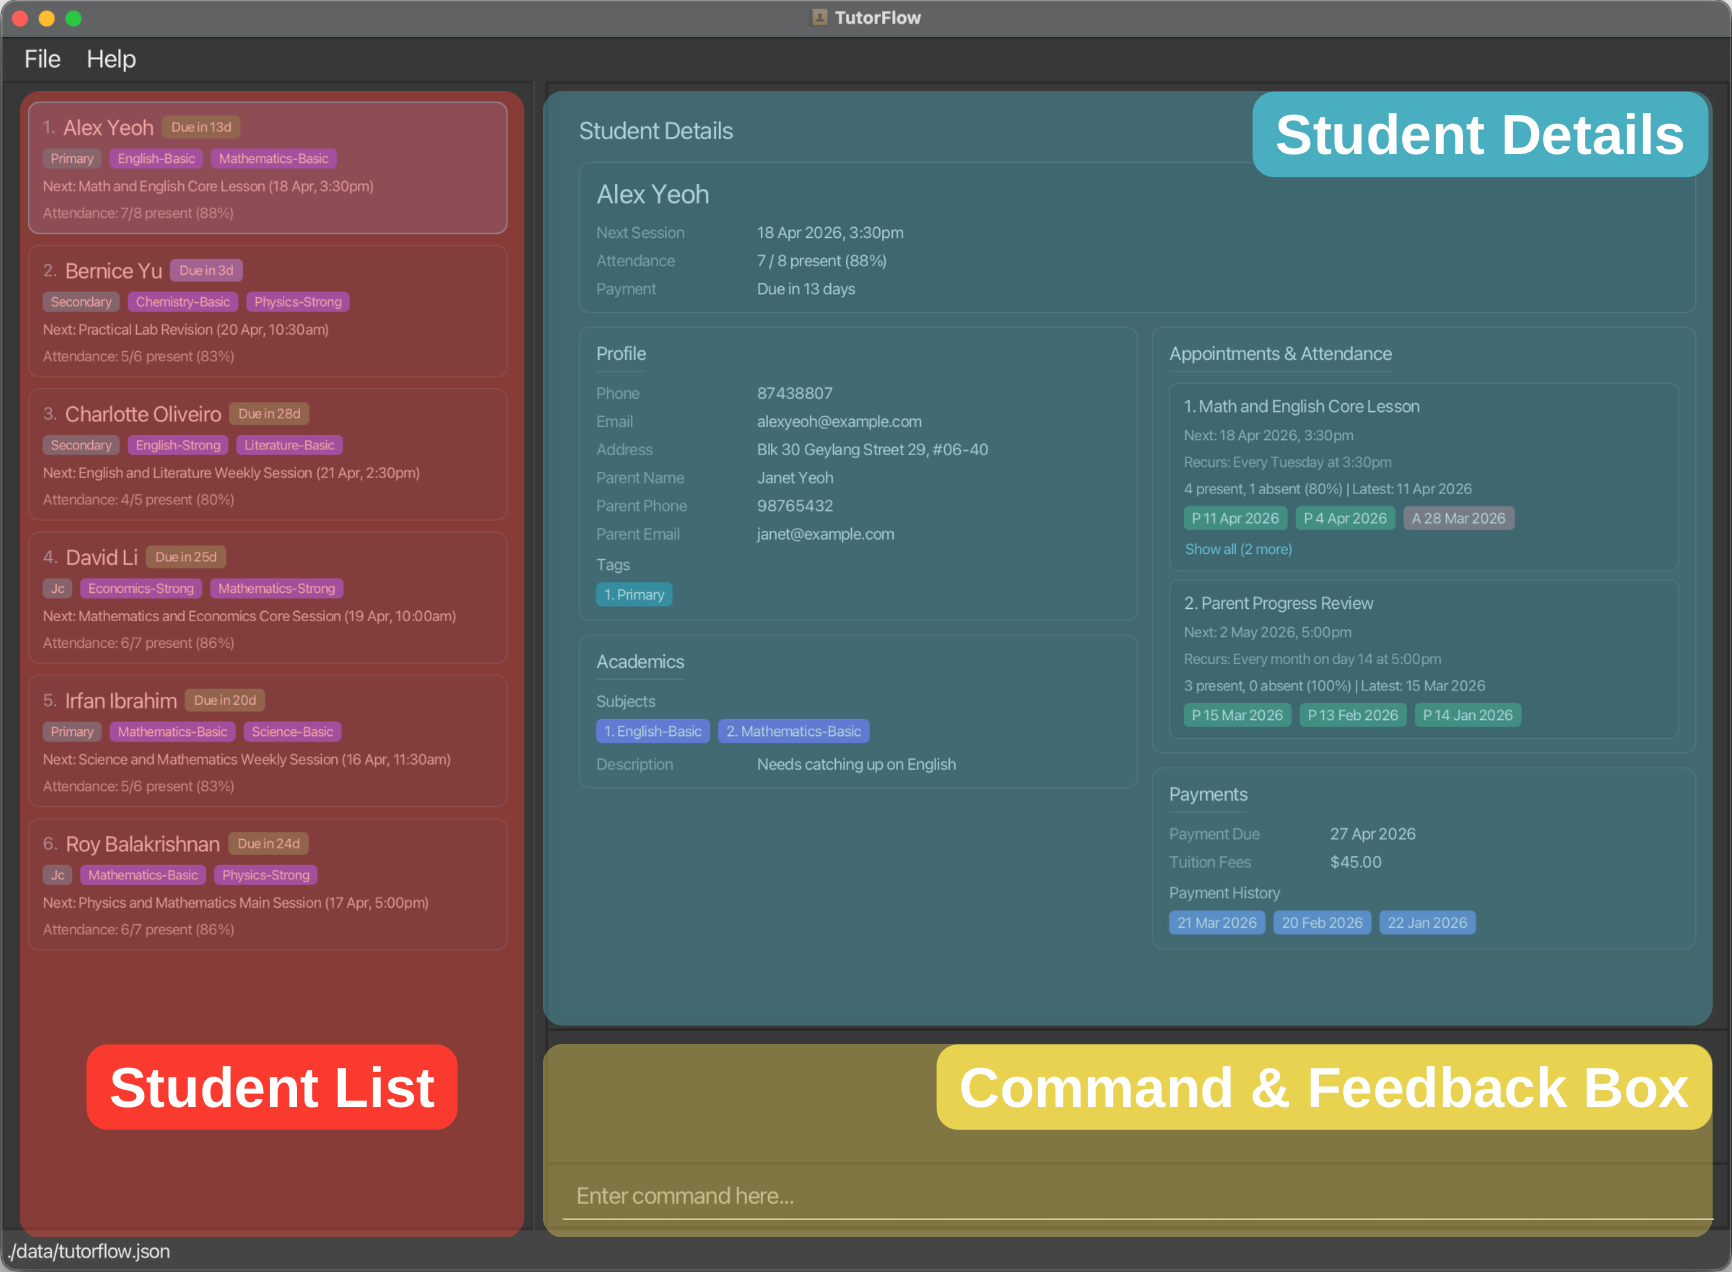
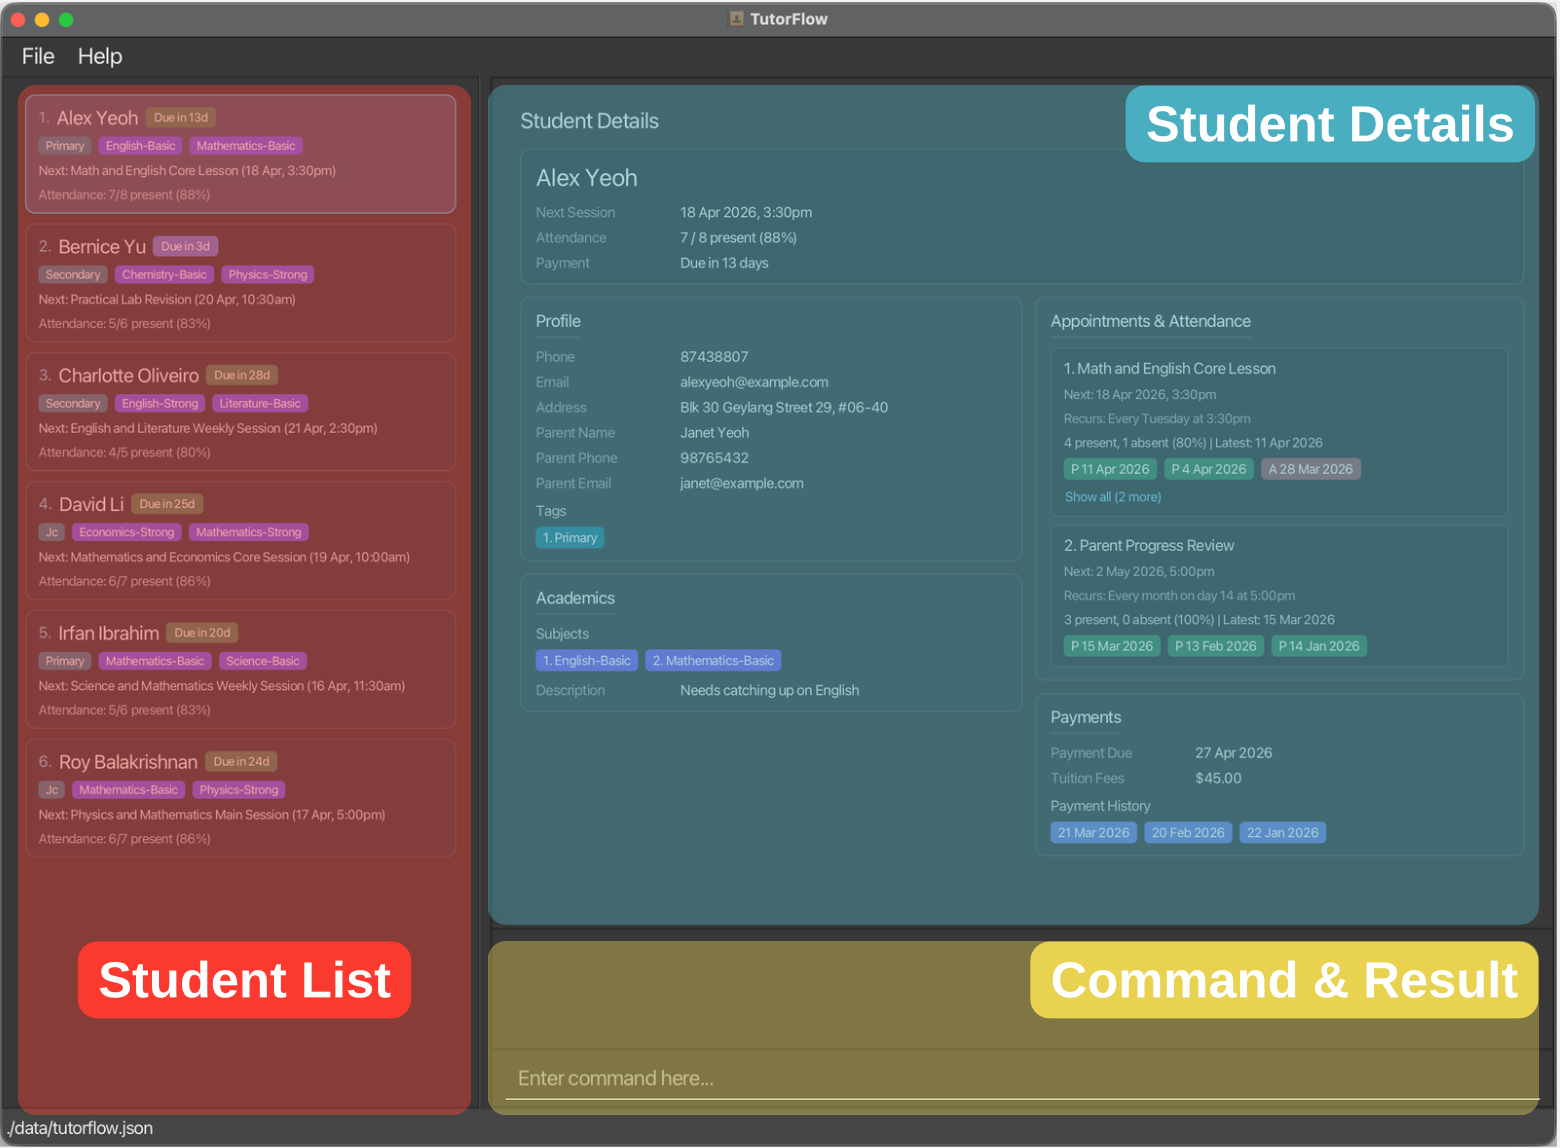
Update Ui annotation and explanation in UG for standardisation

diff --git a/docs/UserGuide.md b/docs/UserGuide.md
@@ -47,10 +47,9 @@ TutorFlow keeps your student list, parent / guardian details, academics, tuition
 
 TutorFlow is organized around a few core areas:
 
-* The **student list** shows the students in the current view. Any command that uses `INDEX` refers to this displayed list.
-* The **detail panel** shows the selected student's full record, including numbered tags, subjects, and appointments.
-* The **result display** confirms whether a command succeeded or failed.
-* The **command box** is where you type commands.
+* The **student list** panel shows the students in the current view. Any command that uses `INDEX` refers to this displayed list.
+* The **student detail panel** shows the selected student's full record, including numbered tags, subjects, and appointments.
+* The **command and result panel** is where you type commands, and confirm whether a command succeeded or failed.
 
 <box type="tip" seamless header="**Tip**">
 <md>
